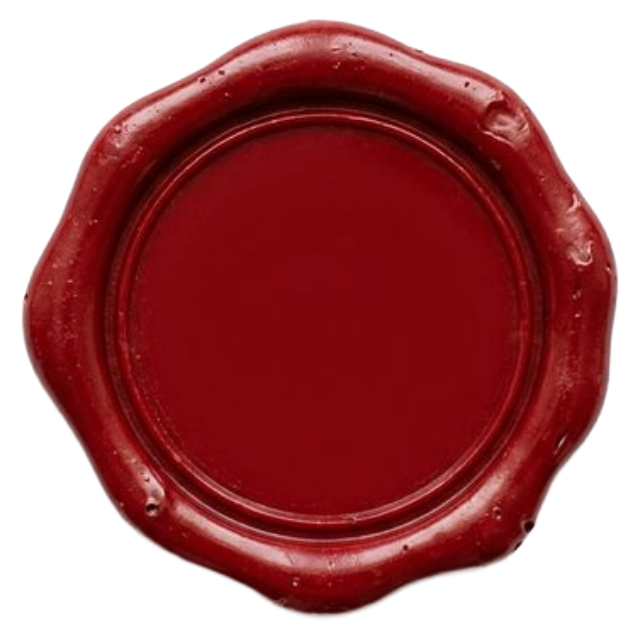
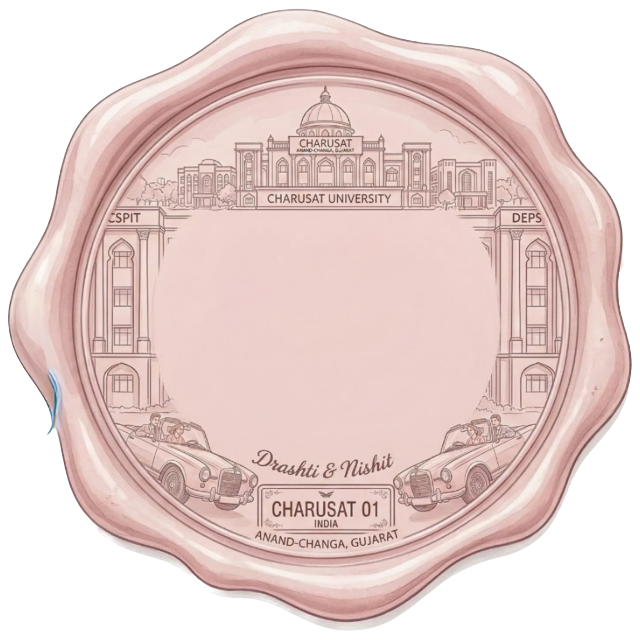
change in colour

diff --git a/src/main.js b/src/main.js
@@ -160,17 +160,17 @@ function initAnimations() {
         canvas.width = rect.width;
         canvas.height = rect.height;
 
-        // Rich Red Wax Gradient
+        // Soft Dusty Rose Wax Gradient to match new seal
         const gradient = ctx.createLinearGradient(0, 0, canvas.width, canvas.height);
-        gradient.addColorStop(0, '#8A151B'); // Deep red wax
-        gradient.addColorStop(0.5, '#A31D24'); // Lighter center
-        gradient.addColorStop(1, '#6E0E14'); // Dark red edge
+        gradient.addColorStop(0, '#E1BFBA'); 
+        gradient.addColorStop(0.5, '#F5DCD9'); 
+        gradient.addColorStop(1, '#D9AEA9'); 
 
         ctx.fillStyle = gradient;
         ctx.fillRect(0, 0, canvas.width, canvas.height);
 
         // Draw "Scratch Here" text lightly embossed
-        ctx.fillStyle = "rgba(255, 255, 255, 0.5)";
+        ctx.fillStyle = "rgba(255, 255, 255, 0.8)";
         ctx.font = "clamp(1rem, 4vw, 1.2rem) Outfit";
         ctx.textAlign = "center";
         ctx.textBaseline = "middle";
@@ -208,7 +208,7 @@ function initAnimations() {
         // The canvas is a square, but CSS border-radius: 50% makes it a circle.
         // The invisible corners take up ~21.5% of the total area. 
         // If the user scratches 70% of the *visible* circle, that is about 55% of the total square area.
-        // We set the threshold to 0.5 (50% of total area) to trigger reliably.
+        // We set the threshold to 0.4 (approx 50% of the visible circle) to trigger reliably.
         if (percent > 0.4) {
           hasPopped = true;
           
@@ -218,7 +218,7 @@ function initAnimations() {
               particleCount: 150,
               spread: 80,
               origin: { y: 0.6 },
-              colors: ['#D4AF37', '#8A151B', '#F8F3EB', '#C3CBB4'] // Match theme: Gold, Red, Cream, Sage
+              colors: ['#D4AF37', '#EDD0CC', '#F8F3EB', '#C3CBB4'] // Match theme: Gold, Pale Pink, Cream, Sage
             });
           }
 

diff --git a/src/style.css b/src/style.css
@@ -609,8 +609,8 @@ html {
     top: 50%;
     left: 50%;
     transform: translate(-50%, -50%);
-    width: 200px; /* Covers exactly the inner circle of the wax seal */
-    height: 200px;
+    width: 250px; /* Covers a wider area of the wax seal */
+    height: 250px;
     cursor: crosshair;
     border-radius: 50%; /* Rounded to stay within the wax edges */
     z-index: 20;
